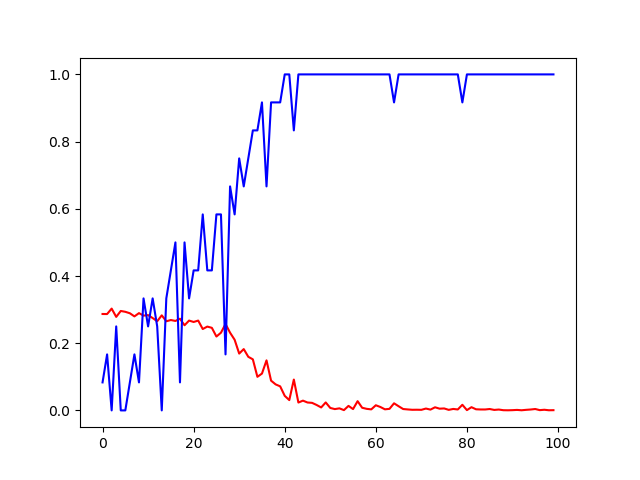
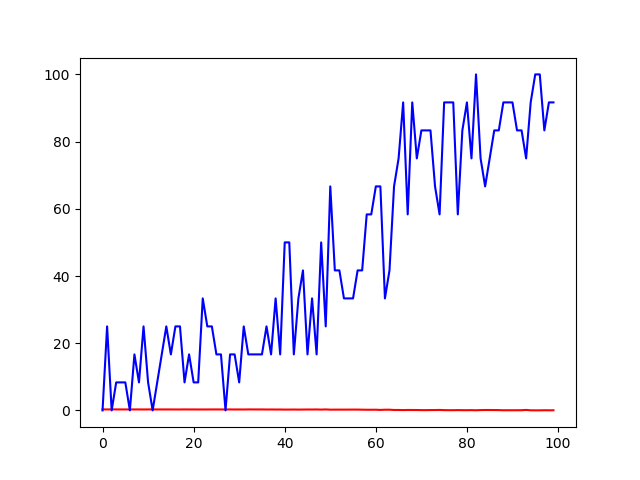
Remove overfitting

diff --git a/trainModel.py b/trainModel.py
@@ -58,21 +58,18 @@ step=[]
 loss=[]
 accuracy=[]
 
+test_images,test_labels=Loader.load_test_data()
+
 num_iterations=int(get("num_iterations"))
 
 for iter in range(num_iterations):
     train_images,train_labels=load_user_batch(user)
-    train_images=train_images
-    train_labels=train_labels
+
     print("Training with ",len(train_labels))
     l,acc=Mod.train(train_images,train_labels)
     print("Testing it")
-    train_images,train_labels=Loader.load_test_data()
-    train_images=train_images
-    train_labels=train_labels
-    print("Testing with ",len(train_labels))
-    l,acc=Mod.train(train_images,train_labels)
-
+    print("Testing with ",len(test_labels))
+    l,acc=Mod.test(test_images,test_labels)
     step.append(iter)
     loss.append(l)
     accuracy.append(acc)

diff --git a/model.py b/model.py
@@ -57,10 +57,13 @@ class Model(object):
         ''' This method trains the model that is constructed using the cosntruct method'''
 
         _,l,acc=self.sess.run([self.optimizer,self.loss,self.accuracy],feed_dict={self.image:images,self.label:labels})
+        acc*=100
         print("Loss {} Accuaracy {}".format(l,acc))
         return l,acc
+
     def test(self,images,labels):
         ''' This method test the trained model using passed data'''
-        acc=self.sess.run([self.accuracy],feed_dict={self.image:images,self.label:labels})
+        l,acc=self.sess.run([self.loss,self.accuracy],feed_dict={self.image:images,self.label:labels})
+        acc*=100
         print(" Accuaracy {}".format(acc))
-        return acc
+        return l,acc
